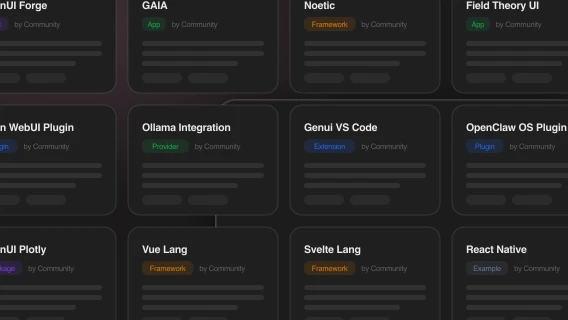
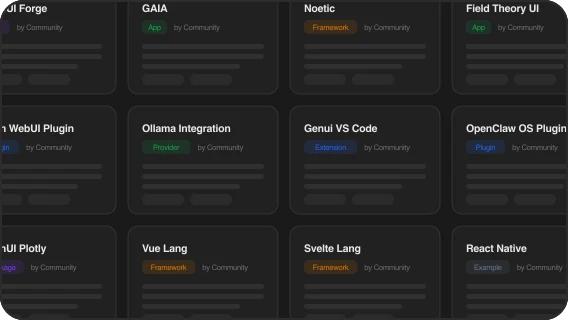
Match the Community preview to the exported frames; stop the light plate in dark
Community preview:
- Drops the pink wash and the large rounded plate that sat behind the cards —
  both were left over from the earlier composition and had no business here.
- Frame now uses the same values as the exported previews, read off the design:
  #f4f4f4 / #1a1a1a fill, 1px stroke at #000 8% / #2c2c2c, 12px radius.
- Cards use the Lab page's own surface and hairline rather than invented ones.

Dark previews looked light because of the container, not the art. The slot
carried `border: var(--openui-border-default)` and `background:
var(--openui-highlight)` — both white-based in dark mode. That double-drew the
edge the artwork already contains, and showed as a light plate behind the dark
art while it lazily loaded. The slot now draws no border and sits on the same
surface colour as the art, so the gap is invisible.

diff --git a/docs/components/site-primary-nav.module.css b/docs/components/site-primary-nav.module.css
@@ -181,14 +181,24 @@
 
 /* 284x160 preview slot. The art is decorative, so it sits behind the label and
    is cropped to fill rather than letterboxed. */
+/* The artwork already carries the design's own surface fill and 1px stroke, so
+   this container adds neither — a border here double-draws the edge, and a
+   token background (white-based in dark mode) shows as a light plate behind the
+   lazily-loaded dark art. The background below only matches the artwork so that
+   gap is invisible. */
 .dropdownPreview {
+  --nav-preview-surface: #f4f4f4;
+
   position: relative;
   display: block;
   overflow: hidden;
   aspect-ratio: 284 / 160;
-  border: 1px solid var(--openui-border-default);
   border-radius: 12px;
-  background: var(--openui-highlight);
+  background: var(--nav-preview-surface);
+}
+
+[data-theme="dark"] .dropdownPreview {
+  --nav-preview-surface: #1a1a1a;
 }
 
 .dropdownPreviewImage {
